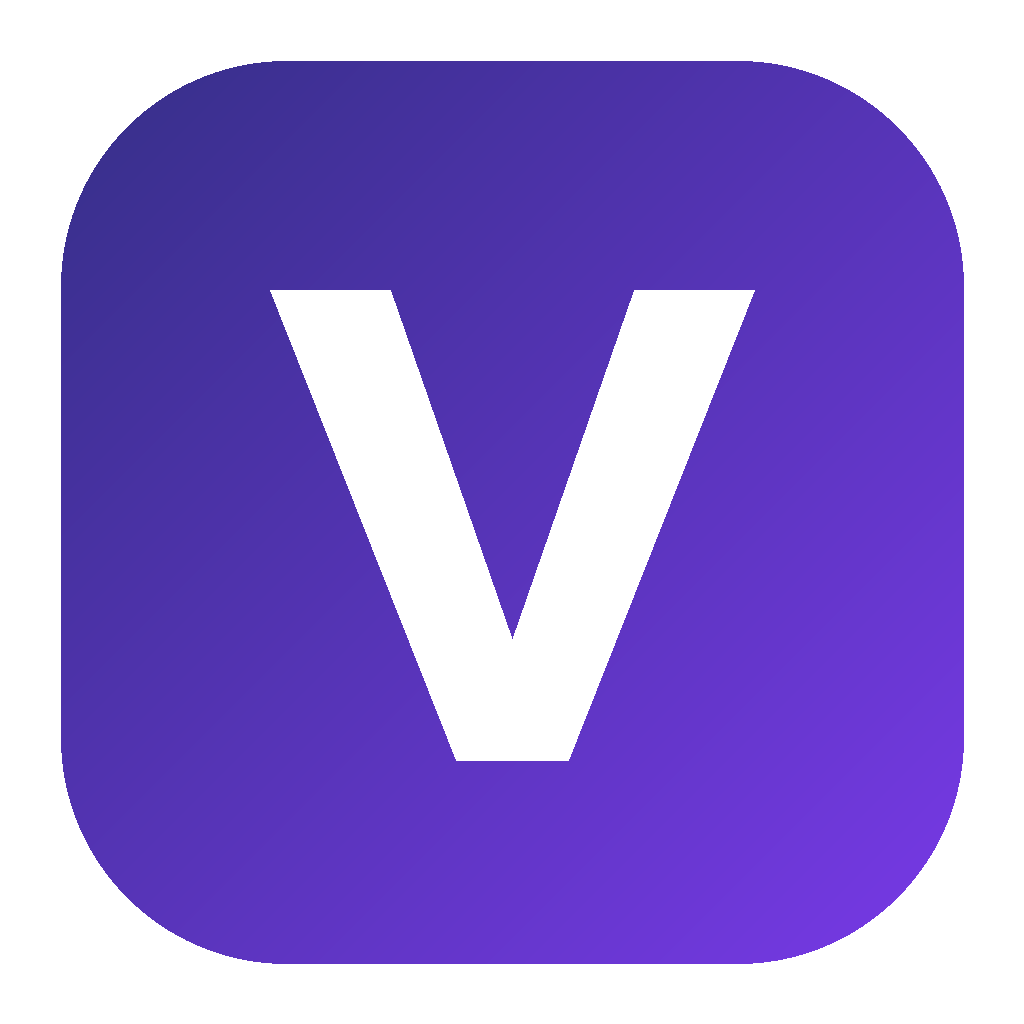
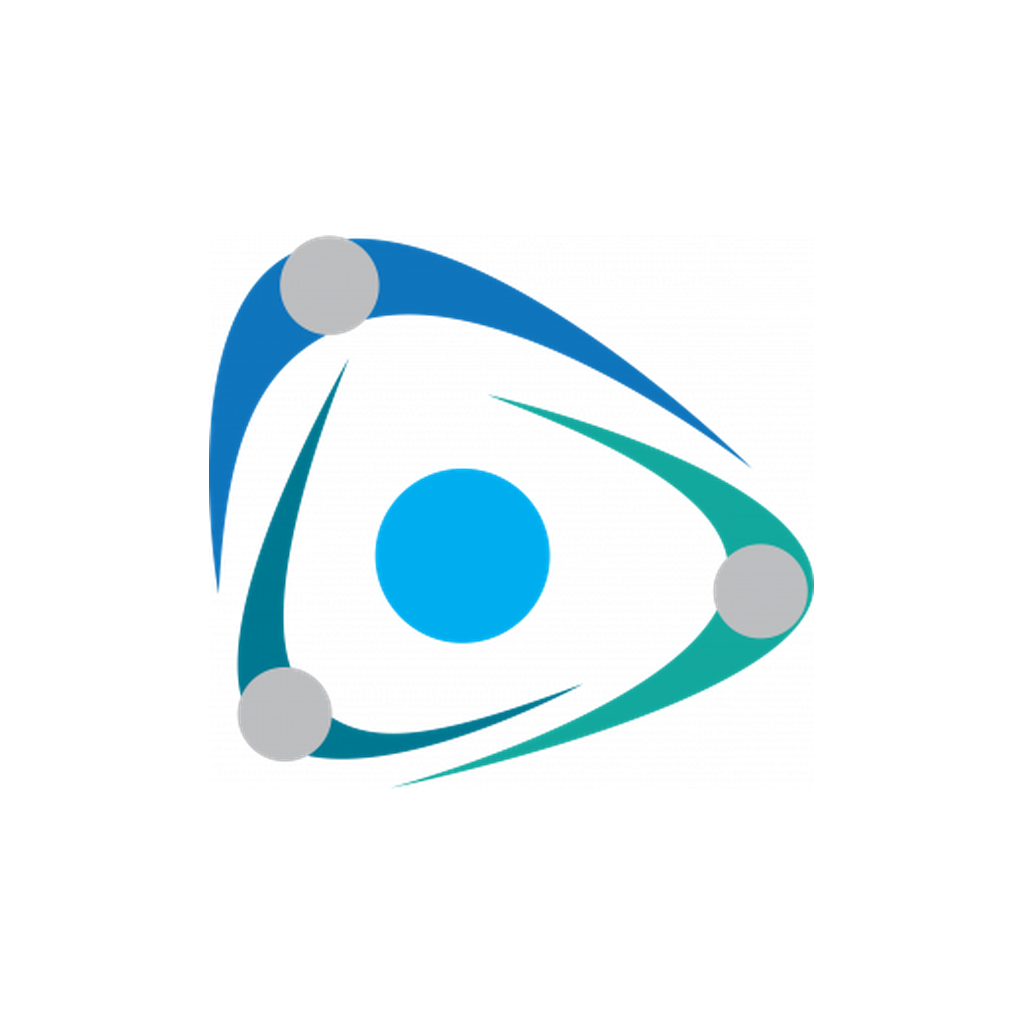
feat(marca): ícono oficial de VALTRE · R-09 cerrado
El ícono de la app se genera del símbolo del logo oficial de VALTRE
(tools/desktop/marca/valtre-logo.png) sobre un cuadrado blanco redondeado.
Se aplica con rebrand.py a src-tauri/icons/icon.png, app-icon.png y al logo
de la interfaz. Acta F0 (anexo §8), docs/06 (R-09) y VALKIRIA.md actualizados.

diff --git a/tools/desktop/marca/generar_icono.py b/tools/desktop/marca/generar_icono.py
@@ -1,6 +1,8 @@
-"""Genera el ícono PROVISIONAL de Valkiria (decisión D3, riesgo R-09).
+"""Genera el ícono oficial de Valkiria a partir del logo de VALTRE (riesgo R-09, cerrado).
 
-Se usa hasta recibir el ícono oficial de VALTRE.
+Fuente: valtre-logo.png (símbolo a color + nombre en blanco sobre fondo transparente, 1228 x 282 px).
+El ícono usa solo el símbolo, porque el nombre en blanco no se lee en un ícono pequeño: se recorta,
+se centra sobre un cuadrado blanco redondeado (rejilla de íconos de macOS) y se exporta en 1024 px.
 
 Uso: uv run --with pillow python tools/desktop/marca/generar_icono.py
 Salida: icono-1024.png (fuente para `tauri icon`) y logo.png (256 px, logo dentro de la app).
@@ -12,32 +14,33 @@ from PIL import Image, ImageDraw
 
 AQUI = Path(__file__).resolve().parent
 LADO = 1024
-INICIO, FIN = (49, 46, 129), (124, 58, 237)  # índigo → violeta
+FIN_SIMBOLO = 330  # el nombre en blanco empieza en x = 334 del logo original
+MARGEN, RADIO, OCUPACION = 0.09, 0.2, 0.72  # en fracción del lado: rejilla macOS (824/1024)
+FONDO = (255, 255, 255, 255)
 
 
-def icono(lado: int = LADO) -> Image.Image:
-    fondo = Image.new("RGB", (lado, lado))
-    pix = fondo.load()
-    for y in range(lado):
-        for x in range(lado):
-            t = (x + y) / (2 * (lado - 1))
-            pix[x, y] = tuple(round(a + (b - a) * t) for a, b in zip(INICIO, FIN, strict=True))
-    mascara = Image.new("L", (lado, lado), 0)
-    margen, radio = lado * 0.06, lado * 0.22
-    ImageDraw.Draw(mascara).rounded_rectangle(
-        (margen, margen, lado - margen, lado - margen), radius=radio, fill=255
-    )
+def simbolo(logo: Image.Image) -> Image.Image:
+    """Recorta el símbolo del logo, sin el nombre y sin bordes transparentes."""
+    parte = logo.convert("RGBA").crop((0, 0, FIN_SIMBOLO, logo.height))
+    caja = parte.getchannel("A").point(lambda a: 255 if a > 8 else 0).getbbox()
+    if caja is None:
+        raise ValueError("El logo no tiene símbolo visible en la zona esperada")
+    return parte.crop(caja)
+
+
+def icono(logo: Image.Image, lado: int = LADO) -> Image.Image:
     img = Image.new("RGBA", (lado, lado), (0, 0, 0, 0))
-    img.paste(fondo, mask=mascara)
-    d = ImageDraw.Draw(img)
-    s = lado / 1024
-    puntos = [(270, 290), (390, 290), (512, 640), (634, 290), (754, 290), (568, 760), (456, 760)]
-    d.polygon([(x * s, y * s) for x, y in puntos], fill="white")
+    m, r = round(lado * MARGEN), round(lado * RADIO)
+    ImageDraw.Draw(img).rounded_rectangle((m, m, lado - m - 1, lado - m - 1), radius=r, fill=FONDO)
+    s = simbolo(logo)
+    escala = (lado - 2 * m) * OCUPACION / max(s.size)
+    s = s.resize((round(s.width * escala), round(s.height * escala)), Image.LANCZOS)
+    img.alpha_composite(s, ((lado - s.width) // 2, (lado - s.height) // 2))
     return img
 
 
 if __name__ == "__main__":
-    grande = icono()
-    grande.save(AQUI / "icono-1024.png")
-    grande.resize((256, 256), Image.LANCZOS).save(AQUI / "logo.png")
+    grande = icono(Image.open(AQUI / "valtre-logo.png"))
+    grande.save(AQUI / "icono-1024.png", optimize=True)
+    grande.resize((256, 256), Image.LANCZOS).save(AQUI / "logo.png", optimize=True)
     print("icono-1024.png y logo.png generados")

diff --git a/evidencias/F0/cierre.md b/evidencias/F0/cierre.md
@@ -91,7 +91,7 @@
 1. Cerrar EX-003 antes del 2026-12-31: subir `zip` a 9 junto con tauri 2.12+, tauri-plugin-updater 2.14.1 y calamine 0.37, y sacar tinypool 1 (vitest 4). Compilar el motor real de inferencia.
 2. Decidir la contingencia de onnxruntime (R-11). R-12 ya está decidido (anexo §8).
 3. Correr `tools/desktop/humo-mac-local.sh --fase F1` en un Mac M4 con macOS 27.2 como evidencia de CA-01.1 y CA-01.3 en macOS.
-4. Recibir el ícono oficial de VALTRE (R-09).
+4. ~~Recibir el ícono oficial de VALTRE (R-09).~~ Hecho (anexo §8).
 5. Adaptar a la marca las 13 pruebas de `web-app` de Jan que comprueban su comportamiento original.
 
 ## 7. Anexo posterior al cierre (2026-11-11)
@@ -118,5 +118,6 @@ Los commits anteriores a este anexo, incluido el tag `fase-0-cierre`, quedan sin
 | **EX-003** · CVE del fork de Jan | De **100 a 6** hallazgos altos o críticos (4 CVE distintas). Se usaron `resolutions` de yarn dentro de la misma versión mayor, se quitaron cinco `devDependencies` de `@janhq/core` sin uso y se subieron vitest a 3.2.6 y `quinn-proto` a 0.11.15. Verificado con `yarn install --immutable`, `build:core`, `build:extensions`, `build:web` y las 171 pruebas de `@janhq/core`. La excepción sigue vigente solo para `zip` (Rust) y `tinypool` (pruebas) | `L6-seguridad/trivy-desktop-remediacion.json`, `apps/desktop/VALKIRIA.md` |
 | OpenSSF Scorecard | `publish_results: true`: el repositorio es público y los resultados se publican firmados por OIDC | `.github/workflows/scorecard.yml` |
 | **R-12** · Soporte de Mac Intel | **Decidido:** no hay versión para Mac Intel. El mínimo de macOS es **Apple Silicon M4 o posterior con macOS 27.2+**. El `.app` es solo arm64 y declara `LSMinimumSystemVersion` 27.2, que macOS hace cumplir; el chip M4 queda como hardware mínimo soportado, sin bloqueo técnico. CI ya no usa `macos-15-intel` y el *ruleset* deja de exigir `Core · macos-x64`. La prueba de humo de macOS pasa a un Mac M4 (`tools/desktop/humo-mac-local.sh`). La ratifica el Product Owner al aprobar esta acta | ADR-0002, `docs/06` (R-12), `tools/desktop/humo-mac-local.sh` |
+| **R-09** · Ícono oficial | El ícono provisional se reemplazó por el símbolo del logo oficial de VALTRE sobre un cuadrado blanco redondeado (rejilla de íconos de macOS). El nombre en blanco del logo no se usa en el ícono porque no se lee en tamaños pequeños. `rebrand.py --check` verifica que el ícono de la app sea el de la marca | `tools/desktop/marca/` (`valtre-logo.png`, `generar_icono.py`) |
 
 Los gates de la sección 3 conservan los valores del commit verificado `cf0cf48`; este anexo registra el estado posterior. `criterios.toml` de F0 conserva los jobs de macOS x64 con los que se cerró la fase; volver a correr su gate sobre un commit nuevo ya no los encontraría. `trazabilidad.csv` actualiza la fila del análisis local de CA-29.4, y `manifest.sha256` se regeneró.

diff --git a/docs/06-plan-desarrollo-incremental.md b/docs/06-plan-desarrollo-incremental.md
@@ -241,7 +241,7 @@ Todas las fases cierran con L1 (HU de la fase aprobadas) y L9 (retrospectiva). N
 | R-06 | Juez LLM local poco fiable | Alta | Medio | Calibración humana (kappa ≥ 0.7) y métricas deterministas como base | Ingeniero LLMOps |
 | R-07 | Licencias de modelos que cambian | Baja | Alto | Revisión del catálogo en cada cierre; solo Apache 2.0 o MIT por defecto | Oficial de seguridad |
 | R-08 | Repositorio privado en plan Free: sin reglas de protección de ramas y minutos de macOS multiplicados ×10 | — | — | **Cerrado el 2026-11-11:** los minutos se agotaron durante F0 y el repositorio se hizo público (D1). *Ruleset* `main` con PR obligatorio y checks requeridos | Líder técnico |
-| R-09 | Faltan los recursos de marca oficiales de VALTRE (ícono y textos) | Media | Bajo | Ícono provisional generado en el repo; se reemplaza sin cambiar código | Product Owner |
+| R-09 | ~~Faltan los recursos de marca oficiales de VALTRE (ícono y textos)~~ | — | — | **Cerrado (2026-11-11):** el ícono se genera del logo oficial de VALTRE (`tools/desktop/marca/valtre-logo.png`). Los textos de marca ya estaban en F0 | Product Owner |
 | R-10 | El código propio supera el límite de líneas del plan Free de SonarQube Cloud | Baja | Medio | Alerta al 80 % en `export-metrics.sh` (RN-29.6) | Líder técnico |
 | R-11 | onnxruntime sin *wheels* para Python 3.15 (spike de F0) | Alta | Alto | Contingencia 3.14 por plataforma (ADR-0002) o *embedder* alternativo; vence con la primera versión `cp315` | Ingeniero LLMOps |
 | R-12 | Sin *wheels* para macOS x64 de lancedb, torch y onnxruntime | — | — | **Cerrado el 2026-11-11:** Valkiria no soporta Mac Intel. El mínimo de macOS es Apple Silicon M4 o posterior con macOS 27.2+; la app declara `LSMinimumSystemVersion` 27.2 y la prueba de humo de macOS corre en un Mac M4 (ADR-0002) | Product Owner |

diff --git a/apps/desktop/VALKIRIA.md b/apps/desktop/VALKIRIA.md
@@ -24,7 +24,7 @@ Las de marca y privacidad las aplica `tools/desktop/rebrand.py`. Los únicos cam
 | Área | Cambio | Regla |
 |---|---|---|
 | Identidad | `productName` «Valkiria Productividad», binario `Valkiria-Productividad`, `identifier` `com.valtre.valkiria`, `publisher` VALTRE, versión `0.0.1`, título de ventana, `<title>`, `Cargo.toml` (descripción y autores) | RN-01.1, RN-01.4 |
-| Ícono y logo | `src-tauri/icons/icon.png`, `src-tauri/app-icon.png` y `web-app/public/images/jan-logo.png` reemplazados por el ícono **provisional** de `tools/desktop/marca/` (decisión D3, riesgo R-09) | RN-01.1 |
+| Ícono y logo | `src-tauri/icons/icon.png`, `src-tauri/app-icon.png` y `web-app/public/images/jan-logo.png` reemplazados por el ícono oficial, generado del símbolo del logo de VALTRE con `tools/desktop/marca/generar_icono.py` (riesgo R-09, cerrado) | RN-01.1 |
 | Textos | La palabra «Jan» en los 18 idiomas de `web-app/src/locales` y en 7 componentes pasa a «Valkiria» | RN-01.1 |
 | Acerca de | Tarjeta en *Ajustes → General* con «Valkiria Productividad · VALTRE» y la atribución a Jan bajo Apache 2.0 (es/en; el resto de idiomas usa el inglés) | RN-01.2 |
 | Proveedores remotos | Todos los proveedores predefinidos (OpenAI, Anthropic, Gemini, etc.) quedan `active: false` | RN-01.3 |
